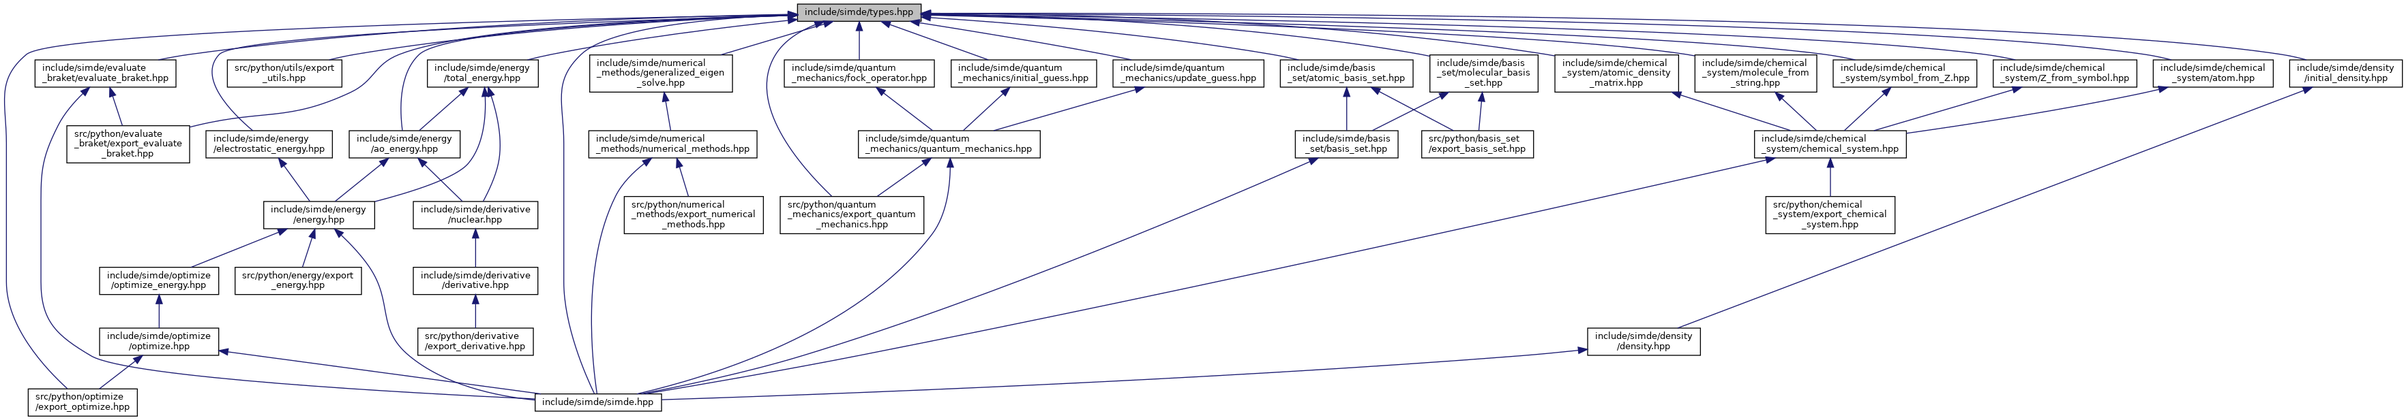
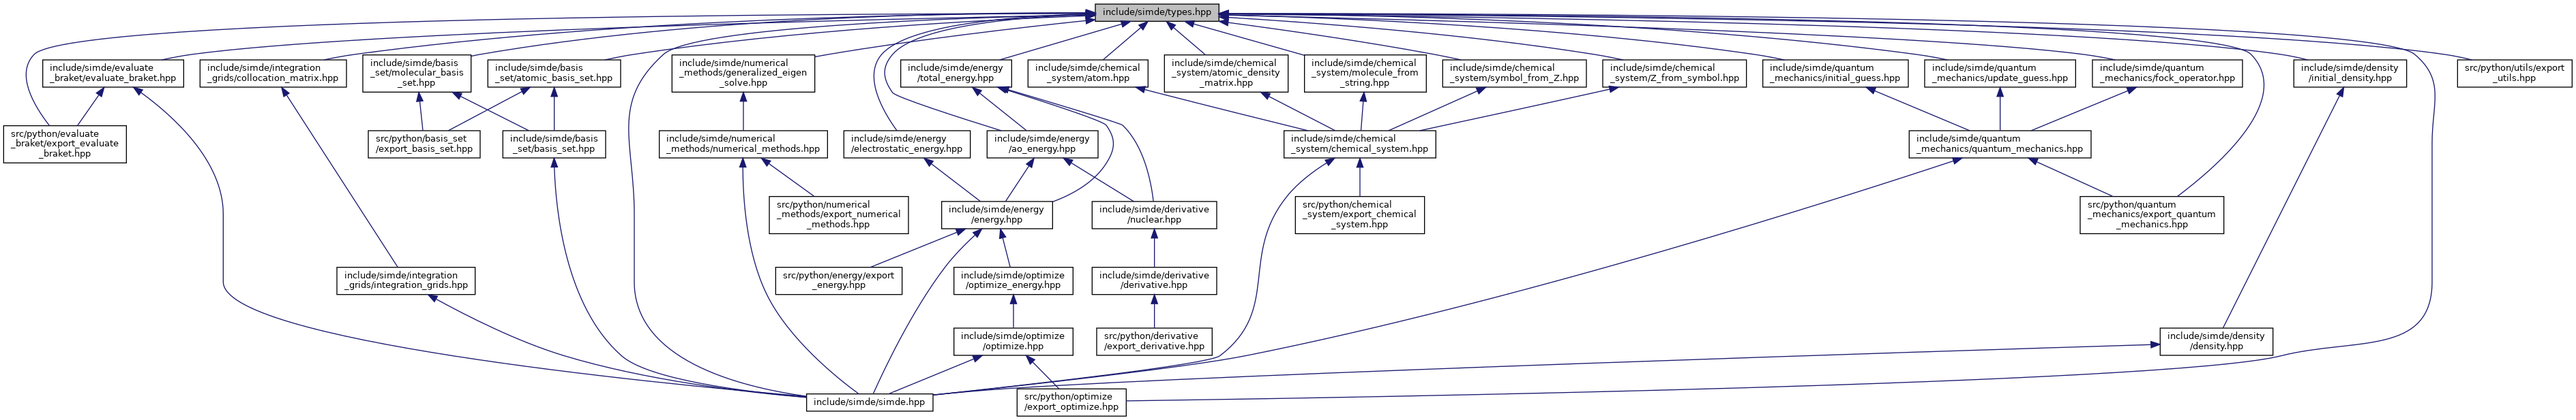
deploy: a001878ee348e43be989e06c77838fec1dba706b

diff --git a/simde_cxx_api/files.html b/simde_cxx_api/files.html
@@ -97,45 +97,46 @@ $(function() {
 <tr id="row_0_0_5_" class="even"><td class="entry"><span style="width:32px;display:inline-block;">&#160;</span><span id="arr_0_0_5_" class="arrow" onclick="toggleFolder('0_0_5_')">&#9660;</span><span id="img_0_0_5_" class="iconfopen" onclick="toggleFolder('0_0_5_')">&#160;</span><a class="el" href="dir_260699d57c22738613d49ae6131ecc21.html" target="_self">evaluate_braket</a></td><td class="desc"></td></tr>
 <tr id="row_0_0_5_0_"><td class="entry"><span style="width:64px;display:inline-block;">&#160;</span><a href="evaluate__braket_8hpp_source.html"><span class="icondoc"></span></a><b>evaluate_braket.hpp</b></td><td class="desc"></td></tr>
 <tr id="row_0_0_6_" class="even"><td class="entry"><span style="width:32px;display:inline-block;">&#160;</span><span id="arr_0_0_6_" class="arrow" onclick="toggleFolder('0_0_6_')">&#9660;</span><span id="img_0_0_6_" class="iconfopen" onclick="toggleFolder('0_0_6_')">&#160;</span><a class="el" href="dir_4fcaaacf8eddb971873167f1721a7aa9.html" target="_self">integration_grids</a></td><td class="desc"></td></tr>
-<tr id="row_0_0_6_0_"><td class="entry"><span style="width:64px;display:inline-block;">&#160;</span><a href="integration__grids_8hpp_source.html"><span class="icondoc"></span></a><b>integration_grids.hpp</b></td><td class="desc"></td></tr>
-<tr id="row_0_0_6_1_" class="even"><td class="entry"><span style="width:64px;display:inline-block;">&#160;</span><a href="molecular__grid_8hpp_source.html"><span class="icondoc"></span></a><b>molecular_grid.hpp</b></td><td class="desc"></td></tr>
-<tr id="row_0_0_7_"><td class="entry"><span style="width:32px;display:inline-block;">&#160;</span><span id="arr_0_0_7_" class="arrow" onclick="toggleFolder('0_0_7_')">&#9660;</span><span id="img_0_0_7_" class="iconfopen" onclick="toggleFolder('0_0_7_')">&#160;</span><a class="el" href="dir_522085ca1943e82c387dd08a6599f845.html" target="_self">numerical_methods</a></td><td class="desc"></td></tr>
-<tr id="row_0_0_7_0_" class="even"><td class="entry"><span style="width:64px;display:inline-block;">&#160;</span><a href="generalized__eigen__solve_8hpp_source.html"><span class="icondoc"></span></a><b>generalized_eigen_solve.hpp</b></td><td class="desc"></td></tr>
-<tr id="row_0_0_7_1_"><td class="entry"><span style="width:64px;display:inline-block;">&#160;</span><a href="numerical__methods_8hpp_source.html"><span class="icondoc"></span></a><b>numerical_methods.hpp</b></td><td class="desc"></td></tr>
-<tr id="row_0_0_8_" class="even"><td class="entry"><span style="width:32px;display:inline-block;">&#160;</span><span id="arr_0_0_8_" class="arrow" onclick="toggleFolder('0_0_8_')">&#9660;</span><span id="img_0_0_8_" class="iconfopen" onclick="toggleFolder('0_0_8_')">&#160;</span><a class="el" href="dir_1d22c4a2b6610d70c6c9fd605cfd2533.html" target="_self">optimize</a></td><td class="desc"></td></tr>
-<tr id="row_0_0_8_0_"><td class="entry"><span style="width:64px;display:inline-block;">&#160;</span><a href="optimize_8hpp_source.html"><span class="icondoc"></span></a><b>optimize.hpp</b></td><td class="desc"></td></tr>
-<tr id="row_0_0_8_1_" class="even"><td class="entry"><span style="width:64px;display:inline-block;">&#160;</span><a href="optimize__energy_8hpp_source.html"><span class="icondoc"></span></a><b>optimize_energy.hpp</b></td><td class="desc"></td></tr>
-<tr id="row_0_0_8_2_"><td class="entry"><span style="width:64px;display:inline-block;">&#160;</span><a href="optimize__pt_8hpp_source.html"><span class="icondoc"></span></a><b>optimize_pt.hpp</b></td><td class="desc"></td></tr>
-<tr id="row_0_0_9_" class="even"><td class="entry"><span style="width:32px;display:inline-block;">&#160;</span><span id="arr_0_0_9_" class="arrow" onclick="toggleFolder('0_0_9_')">&#9660;</span><span id="img_0_0_9_" class="iconfopen" onclick="toggleFolder('0_0_9_')">&#160;</span><a class="el" href="dir_bd933c50614ddc8799e1838c9ee1ef9f.html" target="_self">quantum_mechanics</a></td><td class="desc"></td></tr>
-<tr id="row_0_0_9_0_"><td class="entry"><span style="width:64px;display:inline-block;">&#160;</span><a href="fock__operator_8hpp_source.html"><span class="icondoc"></span></a><b>fock_operator.hpp</b></td><td class="desc"></td></tr>
-<tr id="row_0_0_9_1_" class="even"><td class="entry"><span style="width:64px;display:inline-block;">&#160;</span><a href="initial__guess_8hpp_source.html"><span class="icondoc"></span></a><b>initial_guess.hpp</b></td><td class="desc"></td></tr>
-<tr id="row_0_0_9_2_"><td class="entry"><span style="width:64px;display:inline-block;">&#160;</span><a href="quantum__mechanics_8hpp_source.html"><span class="icondoc"></span></a><b>quantum_mechanics.hpp</b></td><td class="desc"></td></tr>
-<tr id="row_0_0_9_3_" class="even"><td class="entry"><span style="width:64px;display:inline-block;">&#160;</span><a href="update__guess_8hpp_source.html"><span class="icondoc"></span></a><b>update_guess.hpp</b></td><td class="desc"></td></tr>
-<tr id="row_0_0_10_"><td class="entry"><span style="width:32px;display:inline-block;">&#160;</span><span id="arr_0_0_10_" class="arrow" onclick="toggleFolder('0_0_10_')">&#9660;</span><span id="img_0_0_10_" class="iconfopen" onclick="toggleFolder('0_0_10_')">&#160;</span><a class="el" href="dir_48414f2cba29719bcd2b3ef7315bbd21.html" target="_self">utils</a></td><td class="desc"></td></tr>
-<tr id="row_0_0_10_0_" class="even"><td class="entry"><span style="width:64px;display:inline-block;">&#160;</span><a href="convert_8hpp_source.html"><span class="icondoc"></span></a><b>convert.hpp</b></td><td class="desc"></td></tr>
-<tr id="row_0_0_11_"><td class="entry"><span style="width:48px;display:inline-block;">&#160;</span><a href="simde_8hpp_source.html"><span class="icondoc"></span></a><b>simde.hpp</b></td><td class="desc"></td></tr>
-<tr id="row_0_0_12_" class="even"><td class="entry"><span style="width:48px;display:inline-block;">&#160;</span><a href="types_8hpp_source.html"><span class="icondoc"></span></a><a class="el" href="types_8hpp.html" target="_self">types.hpp</a></td><td class="desc"></td></tr>
-<tr id="row_1_"><td class="entry"><span style="width:0px;display:inline-block;">&#160;</span><span id="arr_1_" class="arrow" onclick="toggleFolder('1_')">&#9660;</span><span id="img_1_" class="iconfopen" onclick="toggleFolder('1_')">&#160;</span><a class="el" href="dir_68267d1309a1af8e8297ef4c3efbcdba.html" target="_self">src</a></td><td class="desc"></td></tr>
-<tr id="row_1_0_" class="even"><td class="entry"><span style="width:16px;display:inline-block;">&#160;</span><span id="arr_1_0_" class="arrow" onclick="toggleFolder('1_0_')">&#9660;</span><span id="img_1_0_" class="iconfopen" onclick="toggleFolder('1_0_')">&#160;</span><a class="el" href="dir_5c0d64f70903e893b1efe571a4b8de29.html" target="_self">python</a></td><td class="desc"></td></tr>
-<tr id="row_1_0_0_"><td class="entry"><span style="width:32px;display:inline-block;">&#160;</span><span id="arr_1_0_0_" class="arrow" onclick="toggleFolder('1_0_0_')">&#9660;</span><span id="img_1_0_0_" class="iconfopen" onclick="toggleFolder('1_0_0_')">&#160;</span><a class="el" href="dir_2cf4f5df5e3d48e31b4a40d5c2643610.html" target="_self">basis_set</a></td><td class="desc"></td></tr>
-<tr id="row_1_0_0_0_" class="even"><td class="entry"><span style="width:64px;display:inline-block;">&#160;</span><a href="export__basis__set_8hpp_source.html"><span class="icondoc"></span></a><b>export_basis_set.hpp</b></td><td class="desc"></td></tr>
-<tr id="row_1_0_1_"><td class="entry"><span style="width:32px;display:inline-block;">&#160;</span><span id="arr_1_0_1_" class="arrow" onclick="toggleFolder('1_0_1_')">&#9660;</span><span id="img_1_0_1_" class="iconfopen" onclick="toggleFolder('1_0_1_')">&#160;</span><a class="el" href="dir_0d451391fd065a8d934a1a859bd80ad6.html" target="_self">chemical_system</a></td><td class="desc"></td></tr>
-<tr id="row_1_0_1_0_" class="even"><td class="entry"><span style="width:64px;display:inline-block;">&#160;</span><a href="export__chemical__system_8hpp_source.html"><span class="icondoc"></span></a><b>export_chemical_system.hpp</b></td><td class="desc"></td></tr>
-<tr id="row_1_0_2_"><td class="entry"><span style="width:32px;display:inline-block;">&#160;</span><span id="arr_1_0_2_" class="arrow" onclick="toggleFolder('1_0_2_')">&#9660;</span><span id="img_1_0_2_" class="iconfopen" onclick="toggleFolder('1_0_2_')">&#160;</span><a class="el" href="dir_9469df59bb86947af43ebf69b107d843.html" target="_self">derivative</a></td><td class="desc"></td></tr>
-<tr id="row_1_0_2_0_" class="even"><td class="entry"><span style="width:64px;display:inline-block;">&#160;</span><a href="export__derivative_8hpp_source.html"><span class="icondoc"></span></a><b>export_derivative.hpp</b></td><td class="desc"></td></tr>
-<tr id="row_1_0_3_"><td class="entry"><span style="width:32px;display:inline-block;">&#160;</span><span id="arr_1_0_3_" class="arrow" onclick="toggleFolder('1_0_3_')">&#9660;</span><span id="img_1_0_3_" class="iconfopen" onclick="toggleFolder('1_0_3_')">&#160;</span><a class="el" href="dir_dae6c93c9fcc849a19617cffd1d8d80f.html" target="_self">energy</a></td><td class="desc"></td></tr>
-<tr id="row_1_0_3_0_" class="even"><td class="entry"><span style="width:64px;display:inline-block;">&#160;</span><a href="export__energy_8hpp_source.html"><span class="icondoc"></span></a><b>export_energy.hpp</b></td><td class="desc"></td></tr>
-<tr id="row_1_0_4_"><td class="entry"><span style="width:32px;display:inline-block;">&#160;</span><span id="arr_1_0_4_" class="arrow" onclick="toggleFolder('1_0_4_')">&#9660;</span><span id="img_1_0_4_" class="iconfopen" onclick="toggleFolder('1_0_4_')">&#160;</span><a class="el" href="dir_9368a2ecc0c09d350dc7ab03cf2cacec.html" target="_self">evaluate_braket</a></td><td class="desc"></td></tr>
-<tr id="row_1_0_4_0_" class="even"><td class="entry"><span style="width:64px;display:inline-block;">&#160;</span><a href="export__evaluate__braket_8hpp_source.html"><span class="icondoc"></span></a><b>export_evaluate_braket.hpp</b></td><td class="desc"></td></tr>
-<tr id="row_1_0_5_"><td class="entry"><span style="width:32px;display:inline-block;">&#160;</span><span id="arr_1_0_5_" class="arrow" onclick="toggleFolder('1_0_5_')">&#9660;</span><span id="img_1_0_5_" class="iconfopen" onclick="toggleFolder('1_0_5_')">&#160;</span><a class="el" href="dir_90c11e302c220cd348166e37c4d40643.html" target="_self">numerical_methods</a></td><td class="desc"></td></tr>
-<tr id="row_1_0_5_0_" class="even"><td class="entry"><span style="width:64px;display:inline-block;">&#160;</span><a href="export__numerical__methods_8hpp_source.html"><span class="icondoc"></span></a><b>export_numerical_methods.hpp</b></td><td class="desc"></td></tr>
-<tr id="row_1_0_6_"><td class="entry"><span style="width:32px;display:inline-block;">&#160;</span><span id="arr_1_0_6_" class="arrow" onclick="toggleFolder('1_0_6_')">&#9660;</span><span id="img_1_0_6_" class="iconfopen" onclick="toggleFolder('1_0_6_')">&#160;</span><a class="el" href="dir_5b72fdfd589ab7befa51abdb6e5c34ab.html" target="_self">optimize</a></td><td class="desc"></td></tr>
-<tr id="row_1_0_6_0_" class="even"><td class="entry"><span style="width:64px;display:inline-block;">&#160;</span><a href="export__optimize_8hpp_source.html"><span class="icondoc"></span></a><b>export_optimize.hpp</b></td><td class="desc"></td></tr>
-<tr id="row_1_0_7_"><td class="entry"><span style="width:32px;display:inline-block;">&#160;</span><span id="arr_1_0_7_" class="arrow" onclick="toggleFolder('1_0_7_')">&#9660;</span><span id="img_1_0_7_" class="iconfopen" onclick="toggleFolder('1_0_7_')">&#160;</span><a class="el" href="dir_dfb7e045969ab41991402bcf1a8e7cdb.html" target="_self">quantum_mechanics</a></td><td class="desc"></td></tr>
-<tr id="row_1_0_7_0_" class="even"><td class="entry"><span style="width:64px;display:inline-block;">&#160;</span><a href="export__quantum__mechanics_8hpp_source.html"><span class="icondoc"></span></a><b>export_quantum_mechanics.hpp</b></td><td class="desc"></td></tr>
-<tr id="row_1_0_8_"><td class="entry"><span style="width:32px;display:inline-block;">&#160;</span><span id="arr_1_0_8_" class="arrow" onclick="toggleFolder('1_0_8_')">&#9660;</span><span id="img_1_0_8_" class="iconfopen" onclick="toggleFolder('1_0_8_')">&#160;</span><a class="el" href="dir_6f67cad5a3dd5daef2b4bab22419acbf.html" target="_self">utils</a></td><td class="desc"></td></tr>
-<tr id="row_1_0_8_0_" class="even"><td class="entry"><span style="width:64px;display:inline-block;">&#160;</span><a href="export__utils_8hpp_source.html"><span class="icondoc"></span></a><b>export_utils.hpp</b></td><td class="desc"></td></tr>
-<tr id="row_1_0_9_"><td class="entry"><span style="width:48px;display:inline-block;">&#160;</span><a href="export__simde_8hpp_source.html"><span class="icondoc"></span></a><b>export_simde.hpp</b></td><td class="desc"></td></tr>
+<tr id="row_0_0_6_0_"><td class="entry"><span style="width:64px;display:inline-block;">&#160;</span><a href="collocation__matrix_8hpp_source.html"><span class="icondoc"></span></a><b>collocation_matrix.hpp</b></td><td class="desc"></td></tr>
+<tr id="row_0_0_6_1_" class="even"><td class="entry"><span style="width:64px;display:inline-block;">&#160;</span><a href="integration__grids_8hpp_source.html"><span class="icondoc"></span></a><b>integration_grids.hpp</b></td><td class="desc"></td></tr>
+<tr id="row_0_0_6_2_"><td class="entry"><span style="width:64px;display:inline-block;">&#160;</span><a href="molecular__grid_8hpp_source.html"><span class="icondoc"></span></a><b>molecular_grid.hpp</b></td><td class="desc"></td></tr>
+<tr id="row_0_0_7_" class="even"><td class="entry"><span style="width:32px;display:inline-block;">&#160;</span><span id="arr_0_0_7_" class="arrow" onclick="toggleFolder('0_0_7_')">&#9660;</span><span id="img_0_0_7_" class="iconfopen" onclick="toggleFolder('0_0_7_')">&#160;</span><a class="el" href="dir_522085ca1943e82c387dd08a6599f845.html" target="_self">numerical_methods</a></td><td class="desc"></td></tr>
+<tr id="row_0_0_7_0_"><td class="entry"><span style="width:64px;display:inline-block;">&#160;</span><a href="generalized__eigen__solve_8hpp_source.html"><span class="icondoc"></span></a><b>generalized_eigen_solve.hpp</b></td><td class="desc"></td></tr>
+<tr id="row_0_0_7_1_" class="even"><td class="entry"><span style="width:64px;display:inline-block;">&#160;</span><a href="numerical__methods_8hpp_source.html"><span class="icondoc"></span></a><b>numerical_methods.hpp</b></td><td class="desc"></td></tr>
+<tr id="row_0_0_8_"><td class="entry"><span style="width:32px;display:inline-block;">&#160;</span><span id="arr_0_0_8_" class="arrow" onclick="toggleFolder('0_0_8_')">&#9660;</span><span id="img_0_0_8_" class="iconfopen" onclick="toggleFolder('0_0_8_')">&#160;</span><a class="el" href="dir_1d22c4a2b6610d70c6c9fd605cfd2533.html" target="_self">optimize</a></td><td class="desc"></td></tr>
+<tr id="row_0_0_8_0_" class="even"><td class="entry"><span style="width:64px;display:inline-block;">&#160;</span><a href="optimize_8hpp_source.html"><span class="icondoc"></span></a><b>optimize.hpp</b></td><td class="desc"></td></tr>
+<tr id="row_0_0_8_1_"><td class="entry"><span style="width:64px;display:inline-block;">&#160;</span><a href="optimize__energy_8hpp_source.html"><span class="icondoc"></span></a><b>optimize_energy.hpp</b></td><td class="desc"></td></tr>
+<tr id="row_0_0_8_2_" class="even"><td class="entry"><span style="width:64px;display:inline-block;">&#160;</span><a href="optimize__pt_8hpp_source.html"><span class="icondoc"></span></a><b>optimize_pt.hpp</b></td><td class="desc"></td></tr>
+<tr id="row_0_0_9_"><td class="entry"><span style="width:32px;display:inline-block;">&#160;</span><span id="arr_0_0_9_" class="arrow" onclick="toggleFolder('0_0_9_')">&#9660;</span><span id="img_0_0_9_" class="iconfopen" onclick="toggleFolder('0_0_9_')">&#160;</span><a class="el" href="dir_bd933c50614ddc8799e1838c9ee1ef9f.html" target="_self">quantum_mechanics</a></td><td class="desc"></td></tr>
+<tr id="row_0_0_9_0_" class="even"><td class="entry"><span style="width:64px;display:inline-block;">&#160;</span><a href="fock__operator_8hpp_source.html"><span class="icondoc"></span></a><b>fock_operator.hpp</b></td><td class="desc"></td></tr>
+<tr id="row_0_0_9_1_"><td class="entry"><span style="width:64px;display:inline-block;">&#160;</span><a href="initial__guess_8hpp_source.html"><span class="icondoc"></span></a><b>initial_guess.hpp</b></td><td class="desc"></td></tr>
+<tr id="row_0_0_9_2_" class="even"><td class="entry"><span style="width:64px;display:inline-block;">&#160;</span><a href="quantum__mechanics_8hpp_source.html"><span class="icondoc"></span></a><b>quantum_mechanics.hpp</b></td><td class="desc"></td></tr>
+<tr id="row_0_0_9_3_"><td class="entry"><span style="width:64px;display:inline-block;">&#160;</span><a href="update__guess_8hpp_source.html"><span class="icondoc"></span></a><b>update_guess.hpp</b></td><td class="desc"></td></tr>
+<tr id="row_0_0_10_" class="even"><td class="entry"><span style="width:32px;display:inline-block;">&#160;</span><span id="arr_0_0_10_" class="arrow" onclick="toggleFolder('0_0_10_')">&#9660;</span><span id="img_0_0_10_" class="iconfopen" onclick="toggleFolder('0_0_10_')">&#160;</span><a class="el" href="dir_48414f2cba29719bcd2b3ef7315bbd21.html" target="_self">utils</a></td><td class="desc"></td></tr>
+<tr id="row_0_0_10_0_"><td class="entry"><span style="width:64px;display:inline-block;">&#160;</span><a href="convert_8hpp_source.html"><span class="icondoc"></span></a><b>convert.hpp</b></td><td class="desc"></td></tr>
+<tr id="row_0_0_11_" class="even"><td class="entry"><span style="width:48px;display:inline-block;">&#160;</span><a href="simde_8hpp_source.html"><span class="icondoc"></span></a><b>simde.hpp</b></td><td class="desc"></td></tr>
+<tr id="row_0_0_12_"><td class="entry"><span style="width:48px;display:inline-block;">&#160;</span><a href="types_8hpp_source.html"><span class="icondoc"></span></a><a class="el" href="types_8hpp.html" target="_self">types.hpp</a></td><td class="desc"></td></tr>
+<tr id="row_1_" class="even"><td class="entry"><span style="width:0px;display:inline-block;">&#160;</span><span id="arr_1_" class="arrow" onclick="toggleFolder('1_')">&#9660;</span><span id="img_1_" class="iconfopen" onclick="toggleFolder('1_')">&#160;</span><a class="el" href="dir_68267d1309a1af8e8297ef4c3efbcdba.html" target="_self">src</a></td><td class="desc"></td></tr>
+<tr id="row_1_0_"><td class="entry"><span style="width:16px;display:inline-block;">&#160;</span><span id="arr_1_0_" class="arrow" onclick="toggleFolder('1_0_')">&#9660;</span><span id="img_1_0_" class="iconfopen" onclick="toggleFolder('1_0_')">&#160;</span><a class="el" href="dir_5c0d64f70903e893b1efe571a4b8de29.html" target="_self">python</a></td><td class="desc"></td></tr>
+<tr id="row_1_0_0_" class="even"><td class="entry"><span style="width:32px;display:inline-block;">&#160;</span><span id="arr_1_0_0_" class="arrow" onclick="toggleFolder('1_0_0_')">&#9660;</span><span id="img_1_0_0_" class="iconfopen" onclick="toggleFolder('1_0_0_')">&#160;</span><a class="el" href="dir_2cf4f5df5e3d48e31b4a40d5c2643610.html" target="_self">basis_set</a></td><td class="desc"></td></tr>
+<tr id="row_1_0_0_0_"><td class="entry"><span style="width:64px;display:inline-block;">&#160;</span><a href="export__basis__set_8hpp_source.html"><span class="icondoc"></span></a><b>export_basis_set.hpp</b></td><td class="desc"></td></tr>
+<tr id="row_1_0_1_" class="even"><td class="entry"><span style="width:32px;display:inline-block;">&#160;</span><span id="arr_1_0_1_" class="arrow" onclick="toggleFolder('1_0_1_')">&#9660;</span><span id="img_1_0_1_" class="iconfopen" onclick="toggleFolder('1_0_1_')">&#160;</span><a class="el" href="dir_0d451391fd065a8d934a1a859bd80ad6.html" target="_self">chemical_system</a></td><td class="desc"></td></tr>
+<tr id="row_1_0_1_0_"><td class="entry"><span style="width:64px;display:inline-block;">&#160;</span><a href="export__chemical__system_8hpp_source.html"><span class="icondoc"></span></a><b>export_chemical_system.hpp</b></td><td class="desc"></td></tr>
+<tr id="row_1_0_2_" class="even"><td class="entry"><span style="width:32px;display:inline-block;">&#160;</span><span id="arr_1_0_2_" class="arrow" onclick="toggleFolder('1_0_2_')">&#9660;</span><span id="img_1_0_2_" class="iconfopen" onclick="toggleFolder('1_0_2_')">&#160;</span><a class="el" href="dir_9469df59bb86947af43ebf69b107d843.html" target="_self">derivative</a></td><td class="desc"></td></tr>
+<tr id="row_1_0_2_0_"><td class="entry"><span style="width:64px;display:inline-block;">&#160;</span><a href="export__derivative_8hpp_source.html"><span class="icondoc"></span></a><b>export_derivative.hpp</b></td><td class="desc"></td></tr>
+<tr id="row_1_0_3_" class="even"><td class="entry"><span style="width:32px;display:inline-block;">&#160;</span><span id="arr_1_0_3_" class="arrow" onclick="toggleFolder('1_0_3_')">&#9660;</span><span id="img_1_0_3_" class="iconfopen" onclick="toggleFolder('1_0_3_')">&#160;</span><a class="el" href="dir_dae6c93c9fcc849a19617cffd1d8d80f.html" target="_self">energy</a></td><td class="desc"></td></tr>
+<tr id="row_1_0_3_0_"><td class="entry"><span style="width:64px;display:inline-block;">&#160;</span><a href="export__energy_8hpp_source.html"><span class="icondoc"></span></a><b>export_energy.hpp</b></td><td class="desc"></td></tr>
+<tr id="row_1_0_4_" class="even"><td class="entry"><span style="width:32px;display:inline-block;">&#160;</span><span id="arr_1_0_4_" class="arrow" onclick="toggleFolder('1_0_4_')">&#9660;</span><span id="img_1_0_4_" class="iconfopen" onclick="toggleFolder('1_0_4_')">&#160;</span><a class="el" href="dir_9368a2ecc0c09d350dc7ab03cf2cacec.html" target="_self">evaluate_braket</a></td><td class="desc"></td></tr>
+<tr id="row_1_0_4_0_"><td class="entry"><span style="width:64px;display:inline-block;">&#160;</span><a href="export__evaluate__braket_8hpp_source.html"><span class="icondoc"></span></a><b>export_evaluate_braket.hpp</b></td><td class="desc"></td></tr>
+<tr id="row_1_0_5_" class="even"><td class="entry"><span style="width:32px;display:inline-block;">&#160;</span><span id="arr_1_0_5_" class="arrow" onclick="toggleFolder('1_0_5_')">&#9660;</span><span id="img_1_0_5_" class="iconfopen" onclick="toggleFolder('1_0_5_')">&#160;</span><a class="el" href="dir_90c11e302c220cd348166e37c4d40643.html" target="_self">numerical_methods</a></td><td class="desc"></td></tr>
+<tr id="row_1_0_5_0_"><td class="entry"><span style="width:64px;display:inline-block;">&#160;</span><a href="export__numerical__methods_8hpp_source.html"><span class="icondoc"></span></a><b>export_numerical_methods.hpp</b></td><td class="desc"></td></tr>
+<tr id="row_1_0_6_" class="even"><td class="entry"><span style="width:32px;display:inline-block;">&#160;</span><span id="arr_1_0_6_" class="arrow" onclick="toggleFolder('1_0_6_')">&#9660;</span><span id="img_1_0_6_" class="iconfopen" onclick="toggleFolder('1_0_6_')">&#160;</span><a class="el" href="dir_5b72fdfd589ab7befa51abdb6e5c34ab.html" target="_self">optimize</a></td><td class="desc"></td></tr>
+<tr id="row_1_0_6_0_"><td class="entry"><span style="width:64px;display:inline-block;">&#160;</span><a href="export__optimize_8hpp_source.html"><span class="icondoc"></span></a><b>export_optimize.hpp</b></td><td class="desc"></td></tr>
+<tr id="row_1_0_7_" class="even"><td class="entry"><span style="width:32px;display:inline-block;">&#160;</span><span id="arr_1_0_7_" class="arrow" onclick="toggleFolder('1_0_7_')">&#9660;</span><span id="img_1_0_7_" class="iconfopen" onclick="toggleFolder('1_0_7_')">&#160;</span><a class="el" href="dir_dfb7e045969ab41991402bcf1a8e7cdb.html" target="_self">quantum_mechanics</a></td><td class="desc"></td></tr>
+<tr id="row_1_0_7_0_"><td class="entry"><span style="width:64px;display:inline-block;">&#160;</span><a href="export__quantum__mechanics_8hpp_source.html"><span class="icondoc"></span></a><b>export_quantum_mechanics.hpp</b></td><td class="desc"></td></tr>
+<tr id="row_1_0_8_" class="even"><td class="entry"><span style="width:32px;display:inline-block;">&#160;</span><span id="arr_1_0_8_" class="arrow" onclick="toggleFolder('1_0_8_')">&#9660;</span><span id="img_1_0_8_" class="iconfopen" onclick="toggleFolder('1_0_8_')">&#160;</span><a class="el" href="dir_6f67cad5a3dd5daef2b4bab22419acbf.html" target="_self">utils</a></td><td class="desc"></td></tr>
+<tr id="row_1_0_8_0_"><td class="entry"><span style="width:64px;display:inline-block;">&#160;</span><a href="export__utils_8hpp_source.html"><span class="icondoc"></span></a><b>export_utils.hpp</b></td><td class="desc"></td></tr>
+<tr id="row_1_0_9_" class="even"><td class="entry"><span style="width:48px;display:inline-block;">&#160;</span><a href="export__simde_8hpp_source.html"><span class="icondoc"></span></a><b>export_simde.hpp</b></td><td class="desc"></td></tr>
 </table>
 </div><!-- directory -->
 </div><!-- contents -->

diff --git a/simde_cxx_api/types_8hpp.html b/simde_cxx_api/types_8hpp.html
@@ -95,43 +95,45 @@ This graph shows which files directly or indirectly include this file:</div>
 <div class="dyncontent">
 <div class="center"><img src="types_8hpp__dep__incl.png" border="0" usemap="#ainclude_2simde_2types_8hppdep" alt=""/></div>
 <map name="ainclude_2simde_2types_8hppdep" id="ainclude_2simde_2types_8hppdep">
-<area shape="rect" title=" " alt="" coords="1169,5,1351,32"/>
-<area shape="rect" href="export__evaluate__braket_8hpp_source.html" title=" " alt="" coords="98,184,278,240"/>
-<area shape="rect" href="export__optimize_8hpp_source.html" title=" " alt="" coords="41,571,201,612"/>
-<area shape="rect" href="export__quantum__mechanics_8hpp_source.html" title=" " alt="" coords="1144,288,1355,344"/>
-<area shape="rect" href="export__utils_8hpp_source.html" title=" " alt="" coords="333,87,501,129"/>
-<area shape="rect" href="atomic__basis__set_8hpp_source.html" title=" " alt="" coords="1877,87,2072,129"/>
-<area shape="rect" href="simde_8hpp_source.html" title=" " alt="" coords="785,578,970,605"/>
-<area shape="rect" href="molecular__basis__set_8hpp_source.html" title=" " alt="" coords="2097,80,2255,136"/>
-<area shape="rect" href="atom_8hpp_source.html" title=" " alt="" coords="3157,87,3333,129"/>
-<area shape="rect" href="atomic__density__matrix_8hpp_source.html" title=" " alt="" coords="2280,80,2461,136"/>
-<area shape="rect" href="molecule__from__string_8hpp_source.html" title=" " alt="" coords="2485,80,2664,136"/>
-<area shape="rect" href="symbol__from__Z_8hpp_source.html" title=" " alt="" coords="2688,87,2899,129"/>
-<area shape="rect" href="Z__from__symbol_8hpp_source.html" title=" " alt="" coords="2923,87,3133,129"/>
-<area shape="rect" href="initial__density_8hpp_source.html" title=" " alt="" coords="3357,87,3523,129"/>
-<area shape="rect" href="ao__energy_8hpp_source.html" title=" " alt="" coords="512,191,675,233"/>
-<area shape="rect" href="electrostatic__energy_8hpp_source.html" title=" " alt="" coords="302,191,487,233"/>
-<area shape="rect" href="total__energy_8hpp_source.html" title=" " alt="" coords="627,87,789,129"/>
-<area shape="rect" href="evaluate__braket_8hpp_source.html" title=" " alt="" coords="51,87,258,129"/>
-<area shape="rect" href="generalized__eigen__solve_8hpp_source.html" title=" " alt="" coords="865,80,1074,136"/>
-<area shape="rect" href="fock__operator_8hpp_source.html" title=" " alt="" coords="1150,87,1370,129"/>
-<area shape="rect" href="initial__guess_8hpp_source.html" title=" " alt="" coords="1395,87,1608,129"/>
-<area shape="rect" href="update__guess_8hpp_source.html" title=" " alt="" coords="1632,87,1853,129"/>
-<area shape="rect" href="export__basis__set_8hpp_source.html" title=" " alt="" coords="2085,191,2249,233"/>
-<area shape="rect" href="basis__set_8hpp_source.html" title=" " alt="" coords="1899,191,2050,233"/>
-<area shape="rect" href="chemical__system_8hpp_source.html" title=" " alt="" coords="2573,191,2795,233"/>
-<area shape="rect" href="export__chemical__system_8hpp_source.html" title=" " alt="" coords="2589,288,2779,344"/>
-<area shape="rect" href="density_8hpp_source.html" title=" " alt="" coords="2328,481,2493,523"/>
-<area shape="rect" href="nuclear_8hpp_source.html" title=" " alt="" coords="606,295,789,337"/>
-<area shape="rect" href="energy_8hpp.html" title=" " alt="" coords="387,295,549,337"/>
-<area shape="rect" href="derivative_8hpp.html" title=" " alt="" coords="606,392,789,433"/>
-<area shape="rect" href="export__derivative_8hpp_source.html" title=" " alt="" coords="613,481,782,523"/>
-<area shape="rect" href="export__energy_8hpp_source.html" title=" " alt="" coords="345,392,530,433"/>
-<area shape="rect" href="optimize__energy_8hpp_source.html" title=" " alt="" coords="146,392,321,433"/>
-<area shape="rect" href="optimize_8hpp_source.html" title=" " alt="" coords="146,481,321,523"/>
-<area shape="rect" href="numerical__methods_8hpp_source.html" title=" " alt="" coords="863,191,1110,233"/>
-<area shape="rect" href="export__numerical__methods_8hpp_source.html" title=" " alt="" coords="915,288,1119,344"/>
-<area shape="rect" href="quantum__mechanics_8hpp_source.html" title=" " alt="" coords="1259,191,1525,233"/>
+<area shape="rect" title=" " alt="" coords="1606,5,1787,32"/>
+<area shape="rect" href="export__evaluate__braket_8hpp_source.html" title=" " alt="" coords="5,184,185,240"/>
+<area shape="rect" href="export__optimize_8hpp_source.html" title=" " alt="" coords="1491,571,1651,612"/>
+<area shape="rect" href="export__quantum__mechanics_8hpp_source.html" title=" " alt="" coords="3050,288,3261,344"/>
+<area shape="rect" href="export__utils_8hpp_source.html" title=" " alt="" coords="3603,87,3771,129"/>
+<area shape="rect" href="atomic__basis__set_8hpp_source.html" title=" " alt="" coords="715,87,910,129"/>
+<area shape="rect" href="simde_8hpp_source.html" title=" " alt="" coords="1183,578,1368,605"/>
+<area shape="rect" href="molecular__basis__set_8hpp_source.html" title=" " alt="" coords="532,80,691,136"/>
+<area shape="rect" href="atom_8hpp_source.html" title=" " alt="" coords="1507,87,1683,129"/>
+<area shape="rect" href="atomic__density__matrix_8hpp_source.html" title=" " alt="" coords="1707,80,1889,136"/>
+<area shape="rect" href="molecule__from__string_8hpp_source.html" title=" " alt="" coords="1913,80,2091,136"/>
+<area shape="rect" href="symbol__from__Z_8hpp_source.html" title=" " alt="" coords="2115,87,2326,129"/>
+<area shape="rect" href="Z__from__symbol_8hpp_source.html" title=" " alt="" coords="2350,87,2561,129"/>
+<area shape="rect" href="initial__density_8hpp_source.html" title=" " alt="" coords="3363,87,3529,129"/>
+<area shape="rect" href="ao__energy_8hpp_source.html" title=" " alt="" coords="1447,191,1610,233"/>
+<area shape="rect" href="electrostatic__energy_8hpp_source.html" title=" " alt="" coords="1237,191,1423,233"/>
+<area shape="rect" href="total__energy_8hpp_source.html" title=" " alt="" coords="1321,87,1483,129"/>
+<area shape="rect" href="evaluate__braket_8hpp_source.html" title=" " alt="" coords="63,87,269,129"/>
+<area shape="rect" href="collocation__matrix_8hpp_source.html" title=" " alt="" coords="293,87,508,129"/>
+<area shape="rect" href="generalized__eigen__solve_8hpp_source.html" title=" " alt="" coords="985,80,1195,136"/>
+<area shape="rect" href="fock__operator_8hpp_source.html" title=" " alt="" coords="3068,87,3288,129"/>
+<area shape="rect" href="initial__guess_8hpp_source.html" title=" " alt="" coords="2585,87,2798,129"/>
+<area shape="rect" href="update__guess_8hpp_source.html" title=" " alt="" coords="2822,87,3043,129"/>
+<area shape="rect" href="export__basis__set_8hpp_source.html" title=" " alt="" coords="540,191,704,233"/>
+<area shape="rect" href="basis__set_8hpp_source.html" title=" " alt="" coords="737,191,888,233"/>
+<area shape="rect" href="chemical__system_8hpp_source.html" title=" " alt="" coords="1883,191,2105,233"/>
+<area shape="rect" href="export__chemical__system_8hpp_source.html" title=" " alt="" coords="1899,288,2089,344"/>
+<area shape="rect" href="density_8hpp_source.html" title=" " alt="" coords="3167,481,3333,523"/>
+<area shape="rect" href="nuclear_8hpp_source.html" title=" " alt="" coords="1601,295,1784,337"/>
+<area shape="rect" href="energy_8hpp.html" title=" " alt="" coords="1381,295,1543,337"/>
+<area shape="rect" href="derivative_8hpp.html" title=" " alt="" coords="1601,392,1784,433"/>
+<area shape="rect" href="export__derivative_8hpp_source.html" title=" " alt="" coords="1608,481,1777,523"/>
+<area shape="rect" href="export__energy_8hpp_source.html" title=" " alt="" coords="1137,392,1323,433"/>
+<area shape="rect" href="optimize__energy_8hpp_source.html" title=" " alt="" coords="1399,392,1573,433"/>
+<area shape="rect" href="optimize_8hpp_source.html" title=" " alt="" coords="1399,481,1573,523"/>
+<area shape="rect" href="integration__grids_8hpp_source.html" title=" " alt="" coords="494,392,697,433"/>
+<area shape="rect" href="numerical__methods_8hpp_source.html" title=" " alt="" coords="967,191,1213,233"/>
+<area shape="rect" href="export__numerical__methods_8hpp_source.html" title=" " alt="" coords="1128,288,1332,344"/>
+<area shape="rect" href="quantum__mechanics_8hpp_source.html" title=" " alt="" coords="2799,191,3066,233"/>
 </map>
 </div>
 </div>

diff --git a/simde_cxx_api/collocation__matrix_8hpp_source.html b/simde_cxx_api/collocation__matrix_8hpp_source.html
@@ -5,7 +5,7 @@
 <meta http-equiv="X-UA-Compatible" content="IE=9"/>
 <meta name="generator" content="Doxygen 1.9.1"/>
 <meta name="viewport" content="width=device-width, initial-scale=1"/>
-<title>simde: include/simde/integration_grids/integration_grids.hpp Source File</title>
+<title>simde: include/simde/integration_grids/collocation_matrix.hpp Source File</title>
 <link href="tabs.css" rel="stylesheet" type="text/css"/>
 <script type="text/javascript" src="jquery.js"></script>
 <script type="text/javascript" src="dynsections.js"></script>
@@ -67,7 +67,7 @@ $(function() {
 </div><!-- top -->
 <div class="header">
   <div class="headertitle">
-<div class="title">integration_grids.hpp</div>  </div>
+<div class="title">collocation_matrix.hpp</div>  </div>
 </div><!--header-->
 <div class="contents">
 <div class="fragment"><div class="line"><a name="l00001"></a><span class="lineno">    1</span>&#160;<span class="comment">/*</span></div>
@@ -87,8 +87,32 @@ $(function() {
 <div class="line"><a name="l00015"></a><span class="lineno">   15</span>&#160;<span class="comment"> */</span></div>
 <div class="line"><a name="l00016"></a><span class="lineno">   16</span>&#160; </div>
 <div class="line"><a name="l00017"></a><span class="lineno">   17</span>&#160;<span class="preprocessor">#pragma once</span></div>
-<div class="line"><a name="l00018"></a><span class="lineno">   18</span>&#160;<span class="preprocessor">#include &lt;simde/integration_grids/collocation_matrix.hpp&gt;</span></div>
-<div class="line"><a name="l00019"></a><span class="lineno">   19</span>&#160;<span class="preprocessor">#include &lt;simde/integration_grids/molecular_grid.hpp&gt;</span></div>
+<div class="line"><a name="l00018"></a><span class="lineno">   18</span>&#160;<span class="preprocessor">#include &lt;chemist/grid/grid_class.hpp&gt;</span></div>
+<div class="line"><a name="l00019"></a><span class="lineno">   19</span>&#160;<span class="preprocessor">#include &lt;pluginplay/property_type/property_type.hpp&gt;</span></div>
+<div class="line"><a name="l00020"></a><span class="lineno">   20</span>&#160;<span class="preprocessor">#include &lt;<a class="code" href="types_8hpp.html">simde/types.hpp</a>&gt;</span></div>
+<div class="line"><a name="l00021"></a><span class="lineno">   21</span>&#160; </div>
+<div class="line"><a name="l00022"></a><span class="lineno">   22</span>&#160;<span class="keyword">namespace </span>simde {</div>
+<div class="line"><a name="l00023"></a><span class="lineno">   23</span>&#160; </div>
+<div class="line"><a name="l00024"></a><span class="lineno">   24</span>&#160;DECLARE_PROPERTY_TYPE(CollocationMatrix);</div>
+<div class="line"><a name="l00025"></a><span class="lineno">   25</span>&#160; </div>
+<div class="line"><a name="l00026"></a><span class="lineno">   26</span>&#160;PROPERTY_TYPE_INPUTS(CollocationMatrix) {</div>
+<div class="line"><a name="l00027"></a><span class="lineno">   27</span>&#160;    <span class="keyword">using</span> grid_type     = chemist::Grid;</div>
+<div class="line"><a name="l00028"></a><span class="lineno">   28</span>&#160;    <span class="keyword">using</span> ao_basis_type = <a class="code" href="types_8hpp.html#a9a38b93106424a406c2e496a4685a554">simde::type::ao_basis_set</a>;</div>
+<div class="line"><a name="l00029"></a><span class="lineno">   29</span>&#160;    <span class="keywordflow">return</span> pluginplay::declare_input()</div>
+<div class="line"><a name="l00030"></a><span class="lineno">   30</span>&#160;      .add_field&lt;grid_type&gt;(<span class="stringliteral">&quot;Grid&quot;</span>)</div>
+<div class="line"><a name="l00031"></a><span class="lineno">   31</span>&#160;      .add_field&lt;const ao_basis_type&amp;&gt;(<span class="stringliteral">&quot;AO Basis Set&quot;</span>);</div>
+<div class="line"><a name="l00032"></a><span class="lineno">   32</span>&#160;}</div>
+<div class="line"><a name="l00033"></a><span class="lineno">   33</span>&#160; </div>
+<div class="line"><a name="l00034"></a><span class="lineno">   34</span>&#160;PROPERTY_TYPE_RESULTS(CollocationMatrix) {</div>
+<div class="line"><a name="l00035"></a><span class="lineno">   35</span>&#160;    <span class="keyword">using</span> result_type = <a class="code" href="types_8hpp.html#a3bcce5c90e112a4dafe6df96e45fbc27">simde::type::tensor</a>;</div>
+<div class="line"><a name="l00036"></a><span class="lineno">   36</span>&#160;    <span class="keywordflow">return</span> pluginplay::declare_result().add_field&lt;result_type&gt;(</div>
+<div class="line"><a name="l00037"></a><span class="lineno">   37</span>&#160;      <span class="stringliteral">&quot;Collocation Matrix&quot;</span>);</div>
+<div class="line"><a name="l00038"></a><span class="lineno">   38</span>&#160;}</div>
+<div class="line"><a name="l00039"></a><span class="lineno">   39</span>&#160; </div>
+<div class="line"><a name="l00040"></a><span class="lineno">   40</span>&#160;} <span class="comment">// namespace simde</span></div>
+<div class="ttc" id="atypes_8hpp_html"><div class="ttname"><a href="types_8hpp.html">types.hpp</a></div></div>
+<div class="ttc" id="atypes_8hpp_html_a3bcce5c90e112a4dafe6df96e45fbc27"><div class="ttname"><a href="types_8hpp.html#a3bcce5c90e112a4dafe6df96e45fbc27">simde::type::tensor</a></div><div class="ttdeci">tensorwrapper::Tensor tensor</div><div class="ttdoc">Typedef of the class that represents a tensor.</div><div class="ttdef"><b>Definition:</b> types.hpp:33</div></div>
+<div class="ttc" id="atypes_8hpp_html_a9a38b93106424a406c2e496a4685a554"><div class="ttname"><a href="types_8hpp.html#a9a38b93106424a406c2e496a4685a554">simde::type::ao_basis_set</a></div><div class="ttdeci">chemist::basis_set::AOBasisSetD ao_basis_set</div><div class="ttdoc">Typedef of the AO Basis Set.</div><div class="ttdef"><b>Definition:</b> types.hpp:76</div></div>
 </div><!-- fragment --></div><!-- contents -->
 <!-- start footer part -->
 <hr class="footer"/><address class="footer"><small>

diff --git a/simde_cxx_api/dir_4fcaaacf8eddb971873167f1721a7aa9.html b/simde_cxx_api/dir_4fcaaacf8eddb971873167f1721a7aa9.html
@@ -70,6 +70,15 @@ $(function() {
 <div class="title">integration_grids Directory Reference</div>  </div>
 </div><!--header-->
 <div class="contents">
+<div class="dynheader">
+Directory dependency graph for integration_grids:</div>
+<div class="dyncontent">
+<div class="center"><img src="dir_4fcaaacf8eddb971873167f1721a7aa9_dep.png" border="0" usemap="#adir__4fcaaacf8eddb971873167f1721a7aa9__dep" alt="include/simde/integration_grids"/></div>
+<map name="adir__4fcaaacf8eddb971873167f1721a7aa9__dep" id="adir__4fcaaacf8eddb971873167f1721a7aa9__dep">
+<area shape="rect" href="dir_4fcaaacf8eddb971873167f1721a7aa9.html" title="integration_grids" alt="" coords="27,52,159,100"/>
+<area shape="rect" href="dir_2359eca8484e4a6c0c1bfd14c66d102c.html" title="simde" alt="" coords="16,16,171,111"/>
+</map>
+</div>
 </div><!-- contents -->
 <!-- start footer part -->
 <hr class="footer"/><address class="footer"><small>
